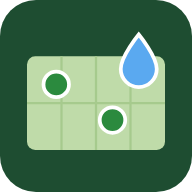
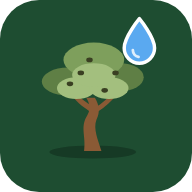
Nuova icona: ulivo con goccia d'acqua
Icona dell'app Android (versione 2) e della versione web.

Claude-Session: https://claude.ai/code/session_017YNxeFJp9WD5eURkHAYidz

diff --git a/android/app/src/main/java/it/alex/campo/BuildConfigVersion.java b/android/app/src/main/java/it/alex/campo/BuildConfigVersion.java
@@ -2,6 +2,6 @@ package it.alex.campo;
 
 /** Versione mostrata nello user agent (aggiornata insieme a version.txt). */
 final class BuildConfigVersion {
-    static final String NAME = "1.1";
+    static final String NAME = "1.2";
     private BuildConfigVersion() { }
 }
